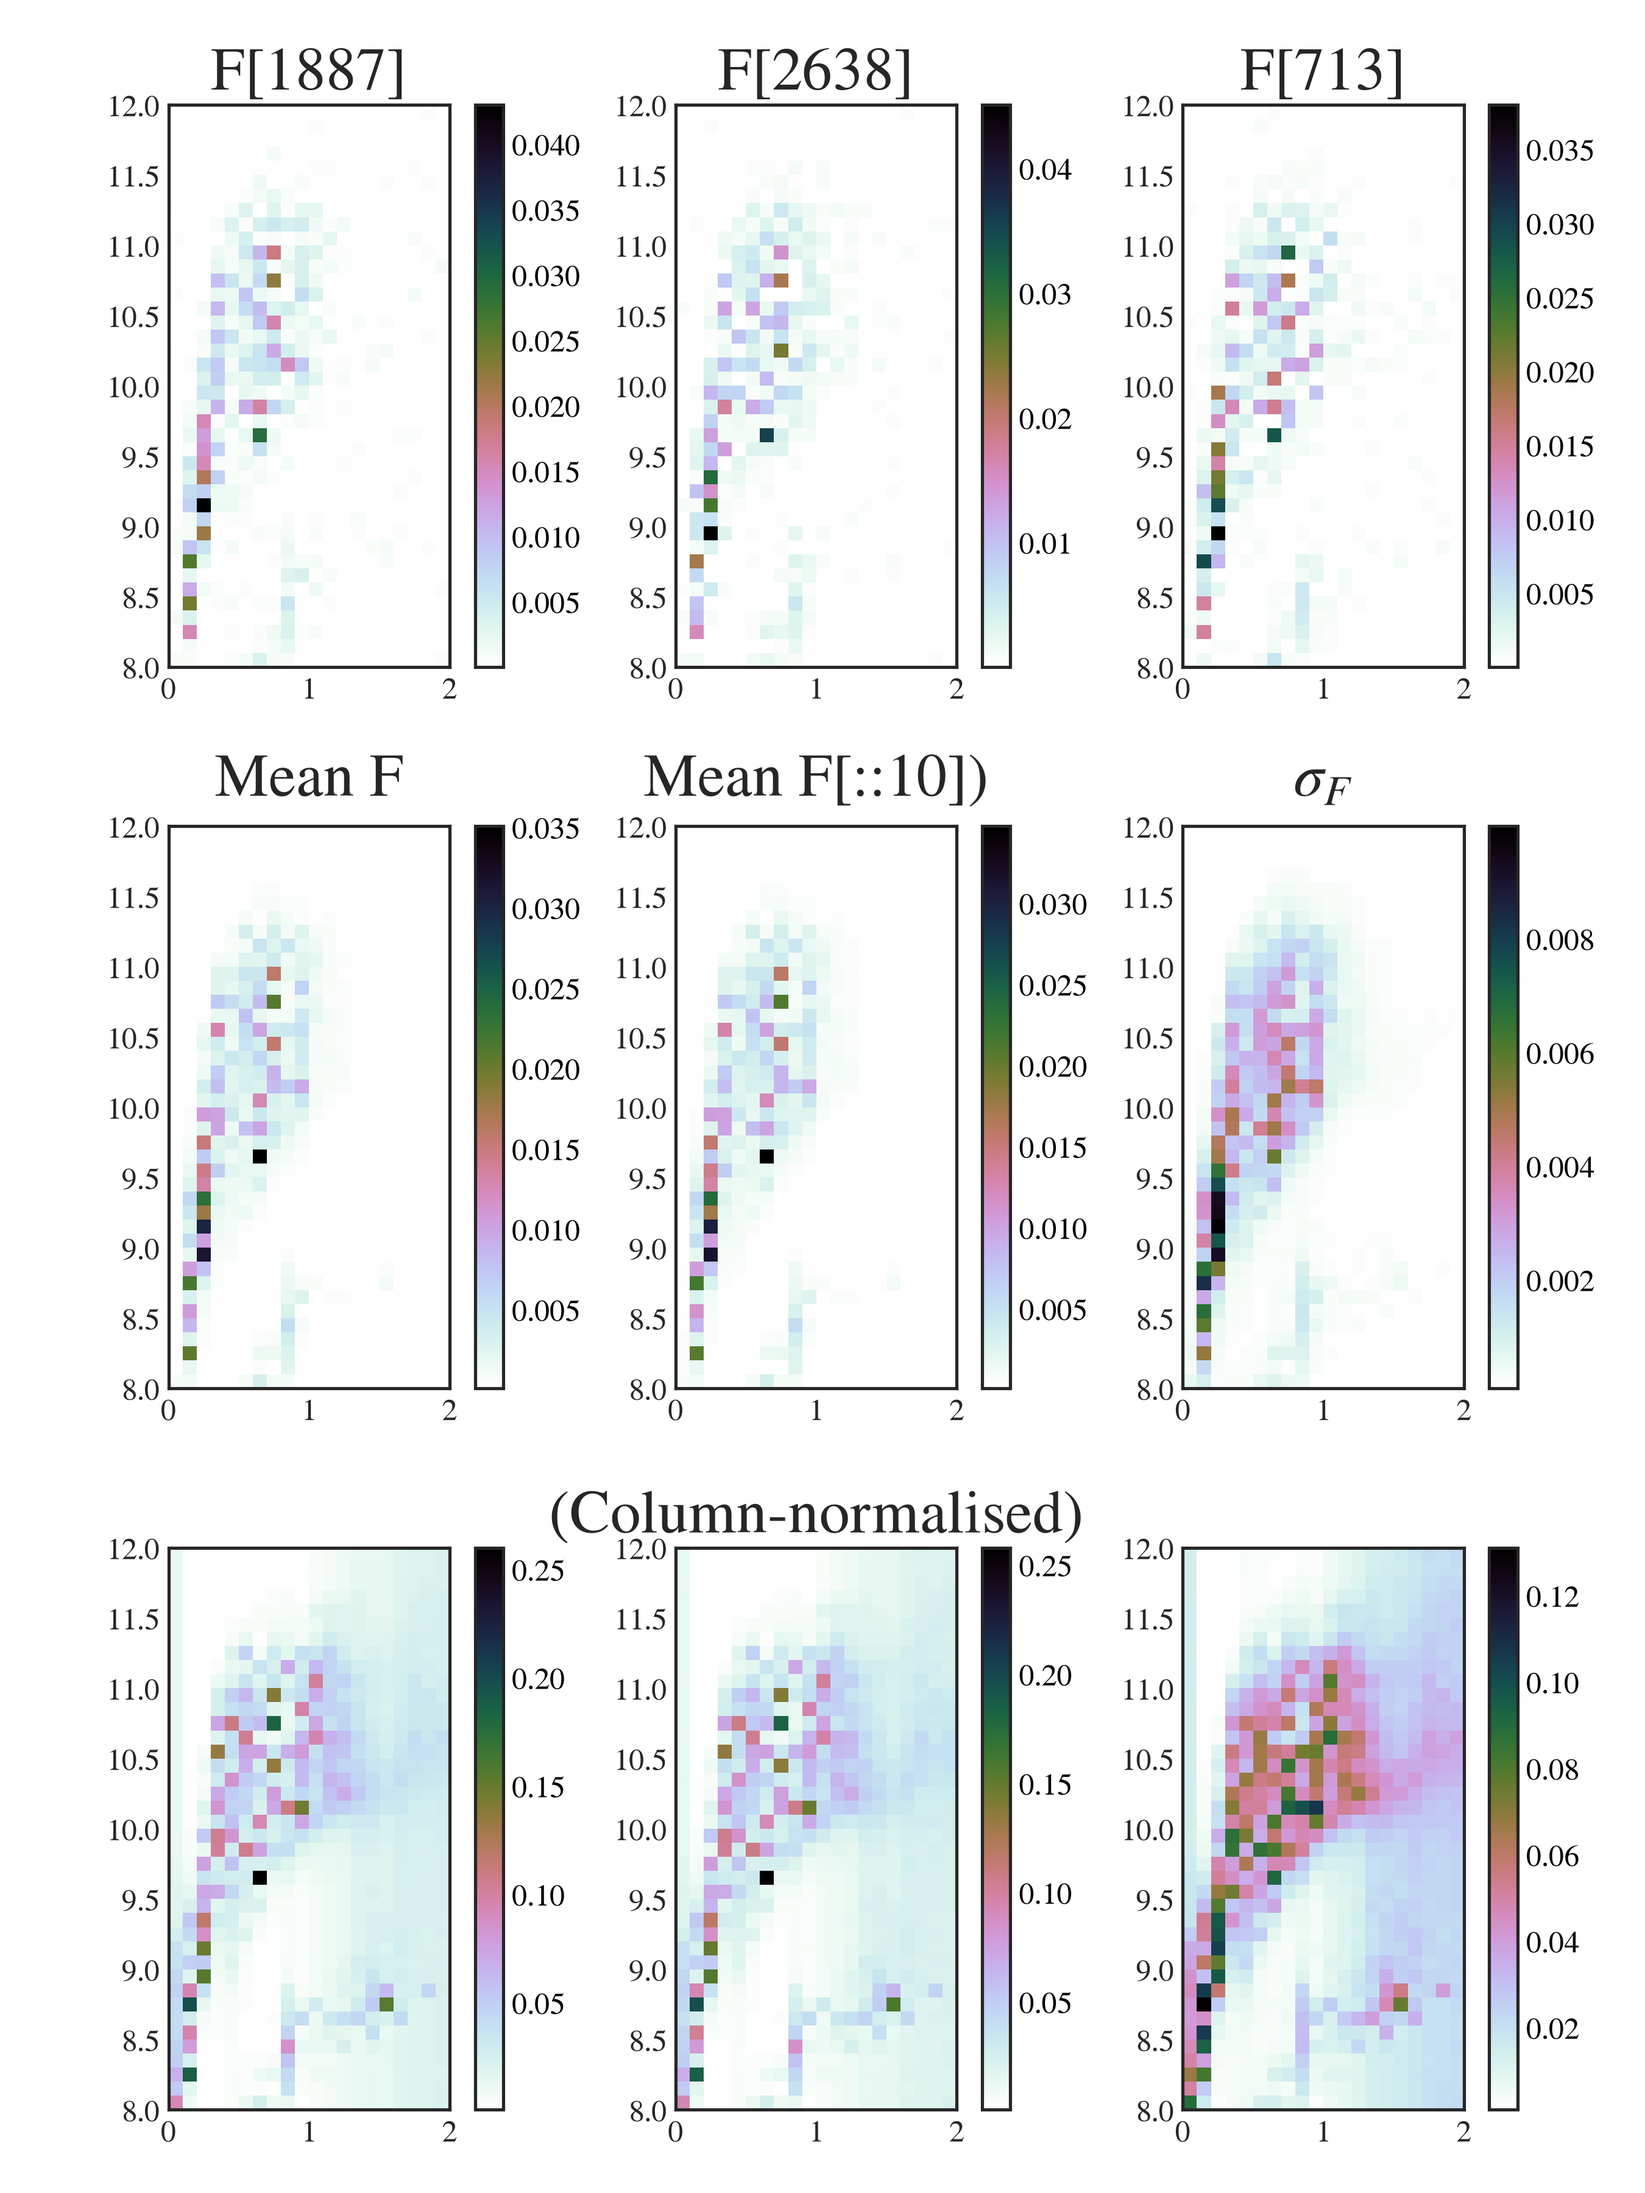
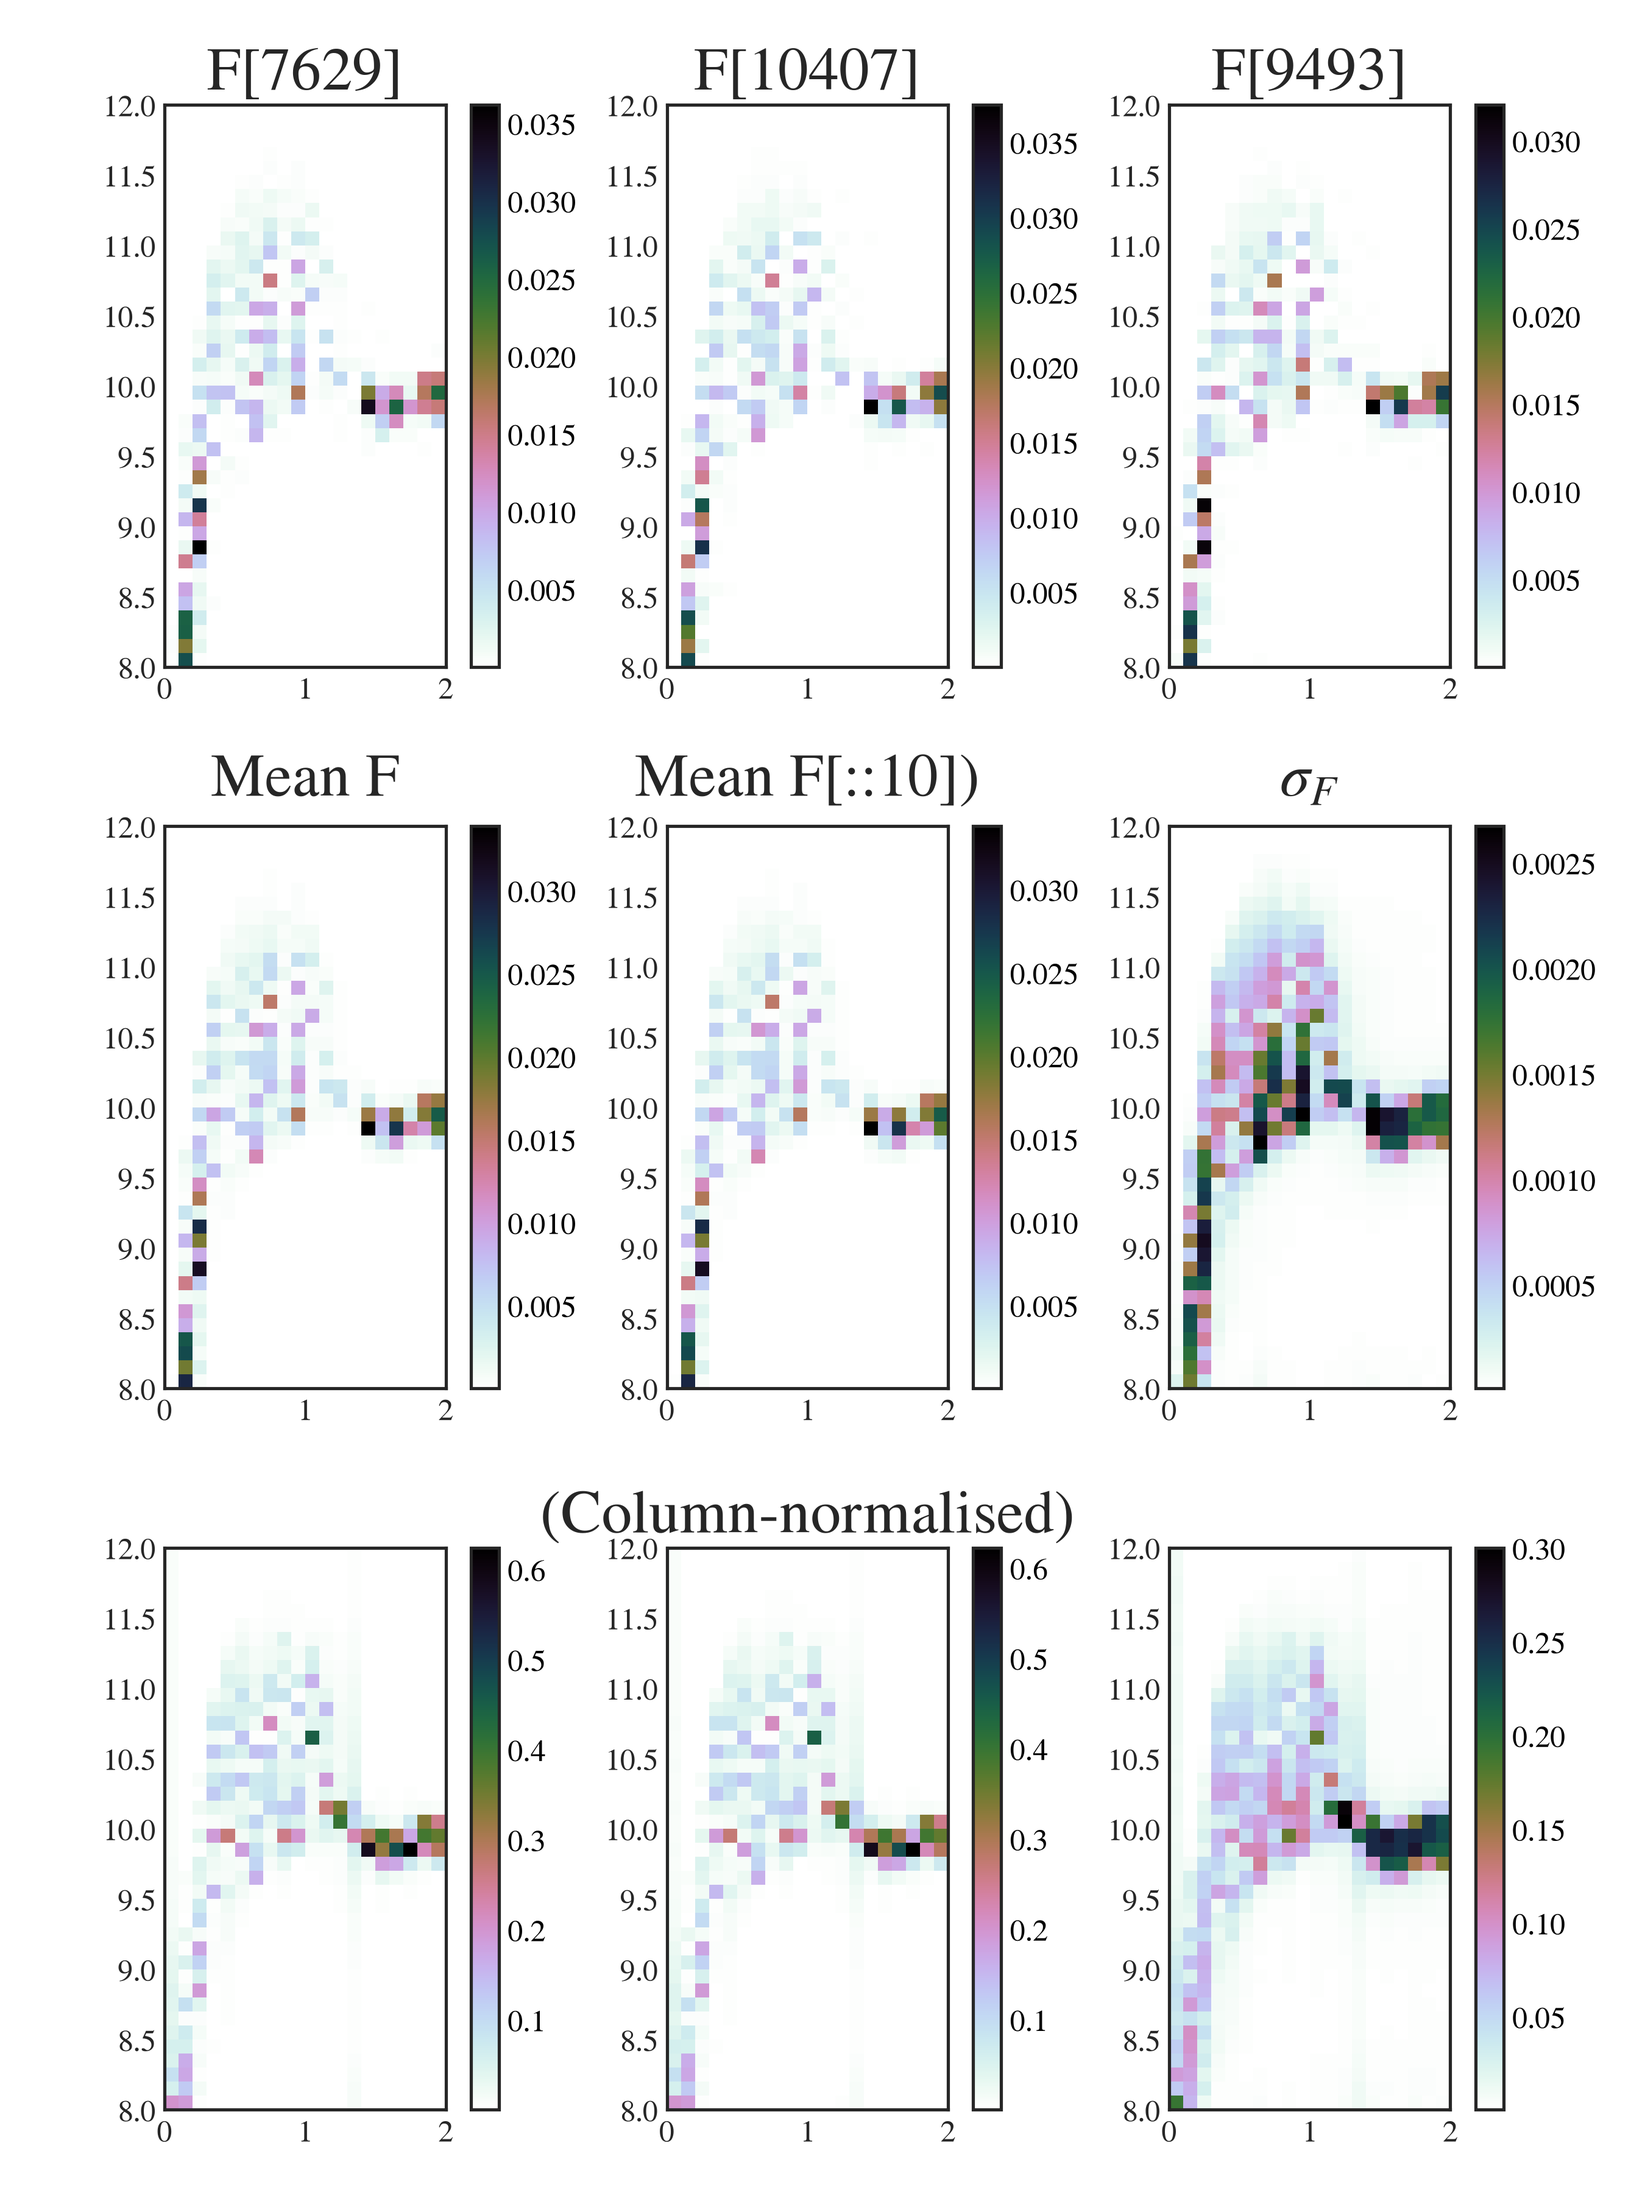
norm_512 plots

diff --git a/Python_files/display_F.py b/Python_files/display_F.py
@@ -307,6 +307,7 @@ def animate_F(F_grid, normalise=False):
         frame_folder = Path('./Sampling/Plots/Animations/Normalised F samples frames')
 
         F_plot = F_norm
+        vmax=0.2
 
     else:
 
@@ -315,11 +316,12 @@ def animate_F(F_grid, normalise=False):
         frame_folder = Path('./Sampling/Plots/Animations/F samples frames')
 
         F_plot = F_grid
-
+        vmax = 0.04
+        
     # Create folder for PNG frames
     frame_folder.mkdir(parents=True, exist_ok=True)
 
-    vmax = 0.04
+    
 
     im0 = axs[0].imshow(
         F_plot.mean(axis=0).T,
@@ -427,21 +429,6 @@ def animate_F(F_grid, normalise=False):
             'facecolor': '#f5f5f5'
         }
     )
-
-    # -----------------------------
-    # Save PNG frames
-    # -----------------------------
-
-    for frame in range(50):
-
-        update(frame)
-
-        fig.savefig(
-            frame_folder / f'F samples-{frame}.png',
-            dpi=300,
-            facecolor='#f5f5f5',
-            bbox_inches='tight'
-        )
 
     return ani
 
@@ -819,28 +806,12 @@ def computation():
     plt.savefig('./Sampling/Plots/Slides/Computation.png', bbox_inches='tight', dpi=300, facecolor=fig.get_facecolor())
 
 def main():
-    warmup_F_grids=[
-        load_F("test_num_warmup_10.npy"),
-        load_F("test_num_warmup_50.npy"),
-        load_F("test_num_warmup_100.npy"),
-        load_F('test_num_warmup_500.npy'),
-        load_F('test_num_warmup_1000.npy')
-    ]
-
-    show_galaxy_size_grids=[
-        load_F("increase_num_gals0.npy"),
-        load_F("increase_num_gals1.npy"),
-        load_F("increase_num_gals2.npy"),
-        load_F("increase_num_gals3.npy"),
-    ]
-
-    F_grid_long=load_F("long_chain.npy")
-    F_grid=show_galaxy_size_grids[-1]
+    F_grid=load_F('norm_512.npy')
 
     #F_samples(F_grid)
     #single_psmf(F_grid, z_idx=6)
     #psmf(F_grid, num_snakes=0)
-    #animate_F(F_grid, normalise=False)
+    animate_F(F_grid, normalise=True)
     
     #run_all(F_grid)
 
